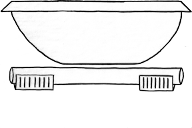
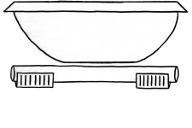
Water and Steam skip colliding with grates.

Changed region(s): [[0.0, 0.0, 1.0, 0.7188]]

diff --git a/src/base-level.ts b/src/base-level.ts
@@ -85,21 +85,32 @@ export class SaturdayLevel extends BaseLevel {
 
 export class SundayLevel extends BaseLevel {
   preload() {
-    super.preload() this.game.load.tilemap('sunday', 'assets/sunday.json', null,
+    super.preload();
+    this.game.load.tilemap('sunday', 'assets/sunday.json', null,
                                            Phaser.Tilemap.TILED_JSON);
   }
 
   create() {
     LEFT_VENT_IDX = 18;
     RIGHT_VENT_IDX = 20;
+    GRATE_IDX = 12;
     this.map = new Map(this.game, 'sunday');
     super.create();
   }
 }
 
+interface MapConfig {
+    left_vent: number;
+    right_vent: number;
+    grate: number;
+    drain: number;
+    spout: number;
+}
+
 // Indecies of special tiles in the tilemap.
 var LEFT_VENT_IDX: number;
 var RIGHT_VENT_IDX: number;
+var GRATE_IDX: number;
 
 export class Map {
   tileMap: Phaser.Tilemap;
@@ -206,8 +217,14 @@ export class Map {
     }
   }
 
-  collidePlatforms(sprite: Phaser.Sprite) {
-    this.game.physics.arcade.collide(sprite, this.platformLayer);
+  collidePlatforms(sprite: Phaser.Sprite, skipGrates: boolean) {
+    this.game.physics.arcade.collide(sprite, this.platformLayer,
+      null, (sprite, tile) => {
+        if (skipGrates && tile.index == GRATE_IDX) {
+          return false;
+        }
+        return true;
+      });
   }
 
   collideDucts(sprite: Phaser.Sprite) {

diff --git a/src/player.ts b/src/player.ts
@@ -65,7 +65,7 @@ export class Player {
 
     // Clamp velocity so we don't clip through platforms.
     this.sprite.body.velocity.y =
-        Phaser.Math.clamp(this.sprite.body.velocity.y, -1500, 1500);
+        Phaser.Math.clamp(this.sprite.body.velocity.y, -1000, 1000);
 
     // TODO: Determine bottom of the level from the map.
     let floor = this.map.tileMap.heightInPixels - this.map.tileMap.tileHeight;
@@ -107,7 +107,7 @@ class Ice extends CharacterState {
 
   update(cursors: Phaser.CursorKeys) {
     // Ice collides with platforms but cannot be controlled.
-    this.map.collidePlatforms(this.sprite);
+    this.map.collidePlatforms(this.sprite, false);
   }
 }
 
@@ -121,7 +121,7 @@ class Water extends CharacterState {
 
   update(cursors: Phaser.CursorKeys) {
     // Make the sprite collide with the ground layer
-    this.map.collidePlatforms(this.sprite);
+    this.map.collidePlatforms(this.sprite, true);
 
     // Water can slide around.
     if (cursors.left.isDown) {
@@ -233,6 +233,7 @@ class Steam extends CharacterState {
     // Ignore collisions during teleport.
     if (!this.teleporting) {
       this.map.collideDucts(this.sprite);
+      this.map.collidePlatforms(this.sprite, true);
     }
   }
 }

diff --git a/README.md b/README.md
@@ -34,6 +34,7 @@ recharge. (Possibly add an item to give you energy)
 - Death on falling through pits
 - Drain collision for water
 - Ice and steam are pushed by fans
+- follow pipes and drains instead of jumping to exit
 - Some kind of hud?
 
 ### Elements
